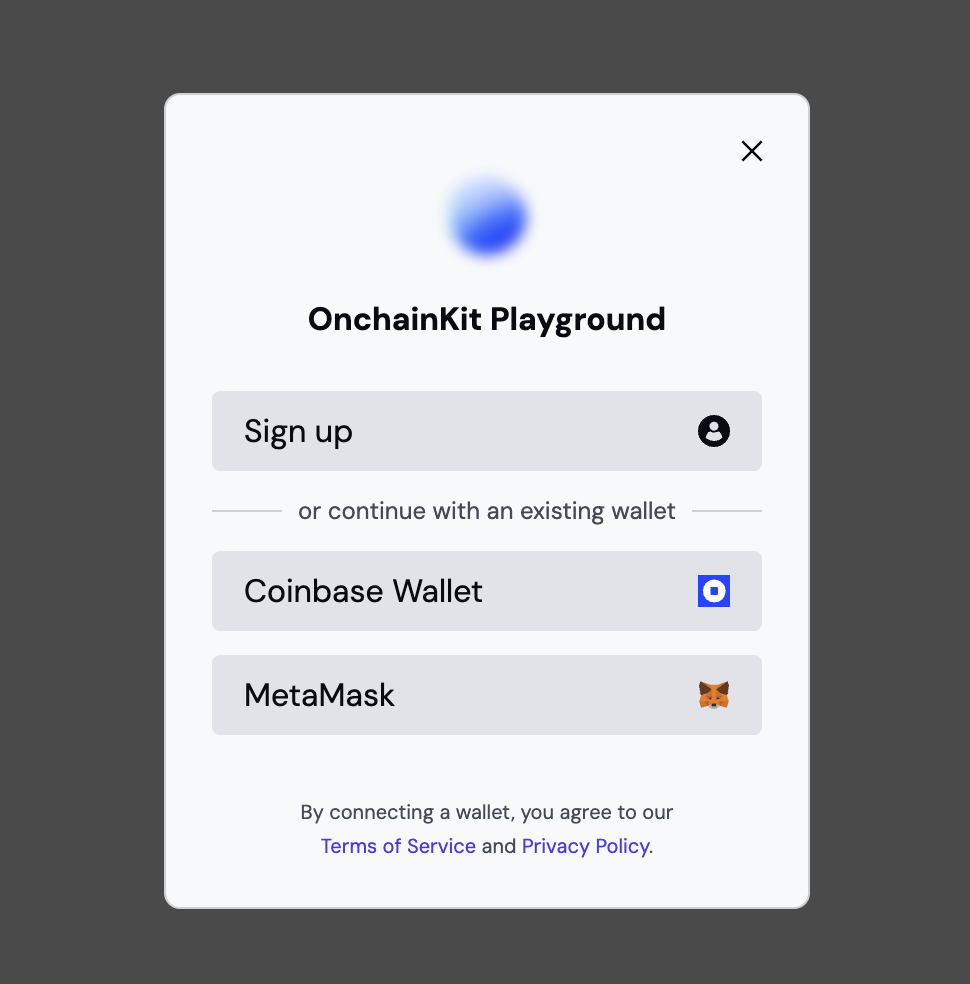
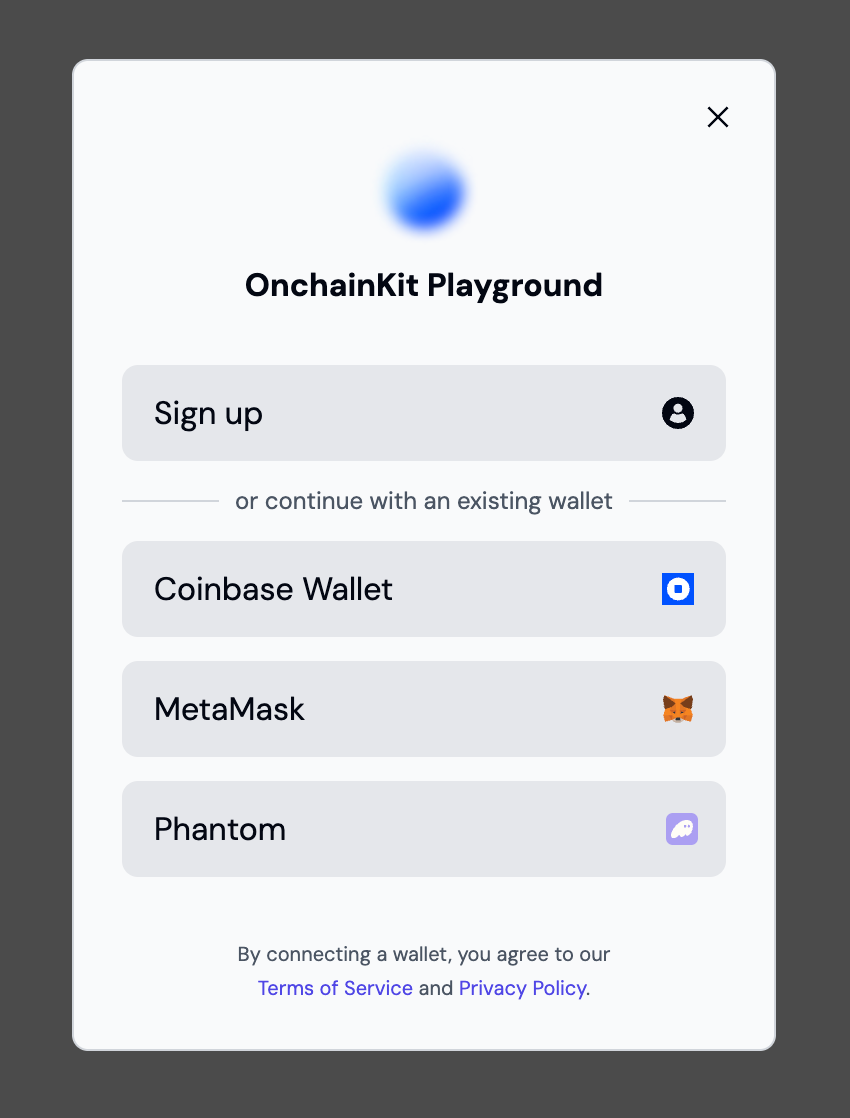
feat: Add Phantom Connector in WalletModal (#1770)

diff --git a/src/wallet/components/WalletModal.tsx b/src/wallet/components/WalletModal.tsx
@@ -1,11 +1,12 @@
 import { useCallback, useEffect, useRef, useState } from 'react';
 import { useConnect } from 'wagmi';
-import { coinbaseWallet, metaMask } from 'wagmi/connectors';
+import { coinbaseWallet, injected, metaMask } from 'wagmi/connectors';
 import { useOnchainKit } from '../../core-react/useOnchainKit';
 import { closeSvg } from '../../internal/svg/closeSvg';
 import { coinbaseWalletSvg } from '../../internal/svg/coinbaseWalletSvg';
 import { defaultAvatarSVG } from '../../internal/svg/defaultAvatarSVG';
 import { metamaskSvg } from '../../internal/svg/metamaskSvg';
+import { phantomSvg } from '../../internal/svg/phantomSvg';
 import {
   background,
   border,
@@ -124,6 +125,22 @@ export function WalletModal({
       );
     }
   }, [connect, onClose, onError, appName, appLogo]);
+
+  const handlePhantomConnection = useCallback(() => {
+    try {
+      const phantomConnector = injected({
+        target: 'phantom',
+      });
+
+      connect({ connector: phantomConnector });
+      onClose();
+    } catch (error) {
+      console.error('Phantom connection error:', error);
+      onError?.(
+        error instanceof Error ? error : new Error('Failed to connect wallet'),
+      );
+    }
+  }, [connect, onClose, onError]);
 
   const handleLinkKeyDown = (
     event: React.KeyboardEvent<HTMLAnchorElement>,
@@ -276,6 +293,24 @@ export function WalletModal({
             MetaMask
             <div className="-mr-0.5 flex h-5 w-5 items-center justify-center">
               {metamaskSvg}
+            </div>
+          </button>
+
+          <button
+            type="button"
+            onClick={handlePhantomConnection}
+            className={cn(
+              border.radius,
+              background.default,
+              text.body,
+              pressable.alternate,
+              color.foreground,
+              'flex items-center justify-between px-4 py-3 text-left',
+            )}
+          >
+            Phantom
+            <div className="-mr-0.5 flex h-4 w-4 items-center justify-center">
+              {phantomSvg}
             </div>
           </button>
         </div>

diff --git a/src/wallet/components/WalletModal.test.tsx b/src/wallet/components/WalletModal.test.tsx
@@ -27,6 +27,9 @@ vi.mock('../../core-react/useOnchainKit', () => ({
 vi.mock('wagmi/connectors', () => ({
   coinbaseWallet: () => ({ preference: 'all' }),
   metaMask: ({ dappMetadata }: MetaMaskParameters) => ({ dappMetadata }),
+  injected: ({ target }: { target: string }) => ({
+    target,
+  }),
 }));
 
 describe('WalletModal', () => {
@@ -490,6 +493,64 @@ describe('WalletModal', () => {
     );
     expect(console.error).toHaveBeenCalledWith(
       'MetaMask connection error:',
+      'Some string error',
+    );
+  });
+
+  it('connects with Phantom when clicking Phantom button', () => {
+    render(<WalletModal isOpen={true} onClose={mockOnClose} />);
+
+    fireEvent.click(screen.getByText('Phantom'));
+
+    expect(mockConnect).toHaveBeenCalledWith({
+      connector: {
+        target: 'phantom',
+      },
+    });
+    expect(mockOnClose).toHaveBeenCalled();
+  });
+
+  it('handles Phantom connection errors', () => {
+    const mockError = new Error('Phantom connection failed');
+    const mockOnError = vi.fn();
+    (useConnect as Mock).mockReturnValue({
+      connect: vi.fn(() => {
+        throw mockError;
+      }),
+    });
+
+    render(
+      <WalletModal isOpen={true} onClose={mockOnClose} onError={mockOnError} />,
+    );
+
+    fireEvent.click(screen.getByText('Phantom'));
+
+    expect(mockOnError).toHaveBeenCalledWith(mockError);
+    expect(console.error).toHaveBeenCalledWith(
+      'Phantom connection error:',
+      mockError,
+    );
+  });
+
+  it('handles non-Error objects in Phantom connection errors', () => {
+    const mockOnError = vi.fn();
+    (useConnect as Mock).mockReturnValue({
+      connect: vi.fn(() => {
+        throw 'Some string error';
+      }),
+    });
+
+    render(
+      <WalletModal isOpen={true} onClose={mockOnClose} onError={mockOnError} />,
+    );
+
+    fireEvent.click(screen.getByText('Phantom'));
+
+    expect(mockOnError).toHaveBeenCalledWith(
+      new Error('Failed to connect wallet'),
+    );
+    expect(console.error).toHaveBeenCalledWith(
+      'Phantom connection error:',
       'Some string error',
     );
   });

diff --git a/src/internal/svg/phantomSvg.tsx b/src/internal/svg/phantomSvg.tsx
@@ -1,0 +1,26 @@
+export const phantomSvg = (
+  <svg
+    xmlns="http://www.w3.org/2000/svg"
+    viewBox="0 0 146 146"
+    width="100%"
+    height="100%"
+    role="img"
+    aria-label="Phantom Logo"
+  >
+    <title>Phantom Logo</title>
+    <g clipPath="url(#clip0_phantom)">
+      <rect width="146" height="146" rx="31.3" fill="#AB9FF2" />
+      <path
+        fillRule="evenodd"
+        clipRule="evenodd"
+        d="M62.92 94.85C57.19 103.66 47.58 114.75 34.79 114.75C28.76 114.75 22.95 112.28 22.95 101.45C22.95 73.97 60.51 31.37 95.38 31.37C115.19 31.37 123.11 45.13 123.11 60.77C123.11 80.81 110.11 103.74 97.15 103.74C93.05 103.74 91.06 101.45 91.06 97.91C91.06 96.98 91.21 95.98 91.52 94.85C87.11 102.41 78.57 109.41 70.6 109.41C64.75 109.41 61.83 105.85 61.83 100.63C61.83 98.77 62.22 96.82 62.92 94.85ZM110.03 60.23C110.03 64.75 107.36 67.03 104.37 67.03C101.31 67.03 98.65 64.75 98.65 60.23C98.65 55.66 101.31 53.38 104.37 53.38C107.36 53.38 110.03 55.66 110.03 60.23ZM92.96 60.23C92.96 64.75 90.29 67.03 87.3 67.03C84.24 67.03 81.58 64.75 81.58 60.23C81.58 55.66 84.24 53.38 87.3 53.38C90.29 53.38 92.96 55.66 92.96 60.23Z"
+        fill="#FFFDF8"
+      />
+    </g>
+    <defs>
+      <clipPath id="clip0_phantom">
+        <rect width="146" height="146" fill="white" />
+      </clipPath>
+    </defs>
+  </svg>
+);

diff --git a/.changeset/green-coins-add.md b/.changeset/green-coins-add.md
@@ -1,0 +1,5 @@
+---
+'@coinbase/onchainkit': patch
+---
+
+- **feat**: Add Phantom Wallet connection support in `WalletModal`. By @cpcramer #1770
